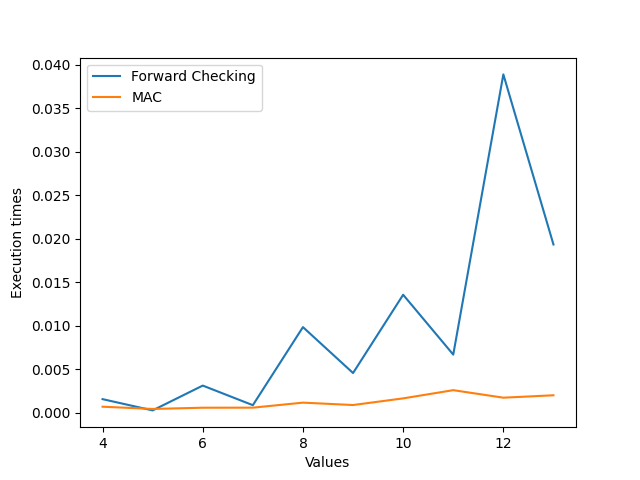
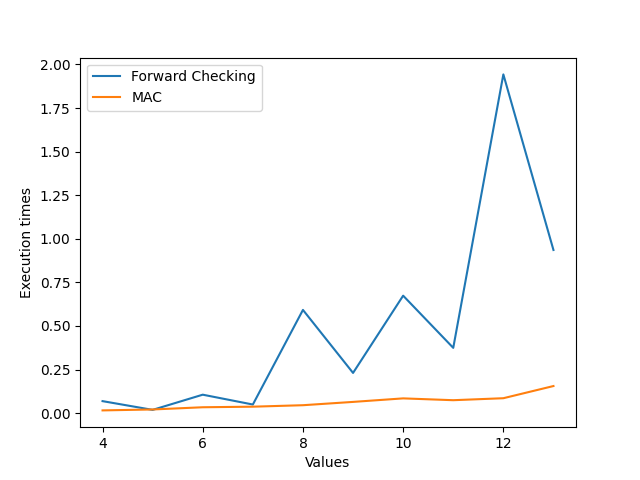
In NQueensProblem.py and BlockedNQueensProblem.py we calculate total execution time, and not the average time for each dimension

diff --git a/BlockedNQueensProblem.py b/BlockedNQueensProblem.py
@@ -360,9 +360,8 @@ def main():
             print("It doesn't exist a solution with FC")
 
     totalTimeFC += totalTime
-    avgFC = totalTime / numIterations
     numOpFc += totalOperationsWithFC
-    sumFC.append(avgFC)
+    sumFC.append(totalTime)
     numberOfOperationsWithFC.append(totalOperationsWithFC)
     totalTime = 0
 
@@ -379,9 +378,8 @@ def main():
             print("It doesn't exist a solution with FC")
 
     totalTimeFC += totalTime
-    avgFC = totalTime / numIterations
     numOpFc += totalOperationsWithFC
-    sumFC.append(avgFC)
+    sumFC.append(totalTime)
     numberOfOperationsWithFC.append(totalOperationsWithFC)
 
     totalTime = 0
@@ -399,9 +397,8 @@ def main():
             print("It doesn't exist a solution with FC")
 
     totalTimeFC += totalTime
-    avgFC = totalTime / numIterations
     numOpFc += totalOperationsWithFC
-    sumFC.append(avgFC)
+    sumFC.append(totalTime)
     numberOfOperationsWithFC.append(totalOperationsWithFC)
 
     totalTime = 0
@@ -420,9 +417,8 @@ def main():
             print("It doesn't exist a solution with MAC")
 
     totalTimeMAC += totalTime
-    avg = totalTime / numIterations
     numOpMac += totalOperationsWithMAC
-    sumMAC.append(avg)
+    sumMAC.append(totalTime)
     numberOfOperationsWithMAC.append(totalOperationsWithMAC)
 
     totalTime = 0
@@ -440,9 +436,8 @@ def main():
             print("It doesn't exist a solution with MAC")
 
     totalTimeMAC += totalTime
-    avg = totalTime / numIterations
     numOpMac += totalOperationsWithMAC
-    sumMAC.append(avg)
+    sumMAC.append(totalTime)
     numberOfOperationsWithMAC.append(totalOperationsWithMAC)
 
     totalTime = 0
@@ -460,13 +455,13 @@ def main():
             print("It doesn't exist a solution with MAC")
 
     totalTimeMAC += totalTime
-    avg = totalTime / numIterations
     numOpMac += totalOperationsWithMAC
-    sumMAC.append(avg)
+    sumMAC.append(totalTime)
     numberOfOperationsWithMAC.append(totalOperationsWithMAC)
 
     # Chessboard's dimensions from 4x4 to 6x6
     values = np.arange(4, 7, 1)
+
 
     print("TOTAL OPERATIONS (including placing a 'Q' and its constraints, "
           "but also removing them) ")

diff --git a/NQueensProblem.py b/NQueensProblem.py
@@ -344,9 +344,8 @@ def main():
                 print("It doesn't exist a solution with FC")
 
         totalTimeFC += totalTime
-        avgFC = totalTime / numIterations
         numOpFc += totalOperationsWithFC
-        sumFC.append(avgFC)
+        sumFC.append(totalTime)
         numberOfOperationsWithFC.append(totalOperationsWithFC)
         totalTime = 0
 
@@ -368,9 +367,8 @@ def main():
                 print("It doesn't exist a solution with MAC")
 
         totalTimeMAC += totalTime
-        avg = totalTime / numIterations
         numOpMac += totalOperationsWithMAC
-        sumMAC.append(avg)
+        sumMAC.append(totalTime)
         numberOfOperationsWithMAC.append(totalOperationsWithMAC)
 
     print("TOTAL OPERATIONS (including placing a 'Q' and its constraints, "

diff --git a/KillerSudokuProblem.py b/KillerSudokuProblem.py
@@ -1,5 +1,7 @@
 import json
 import sys
+from timeit import default_timer as timer
+from matplotlib import pyplot as plt
 
 # Defines the cages as tuples starting from json format
 from UtilityForAlgorithms import UtilityForAlgorithms
@@ -155,7 +157,10 @@ def main():
     # the list of all the cells of that cage
     setOfCells = {cell: cage for cage in cages for cell in cage['cells']}
 
-    callBacktrackFC(sudokuGrid, setOfCells)
+    for i in range(20):
+        callBacktrackFC(sudokuGrid, setOfCells)
+
+
 
 
 if __name__ == '__main__':
